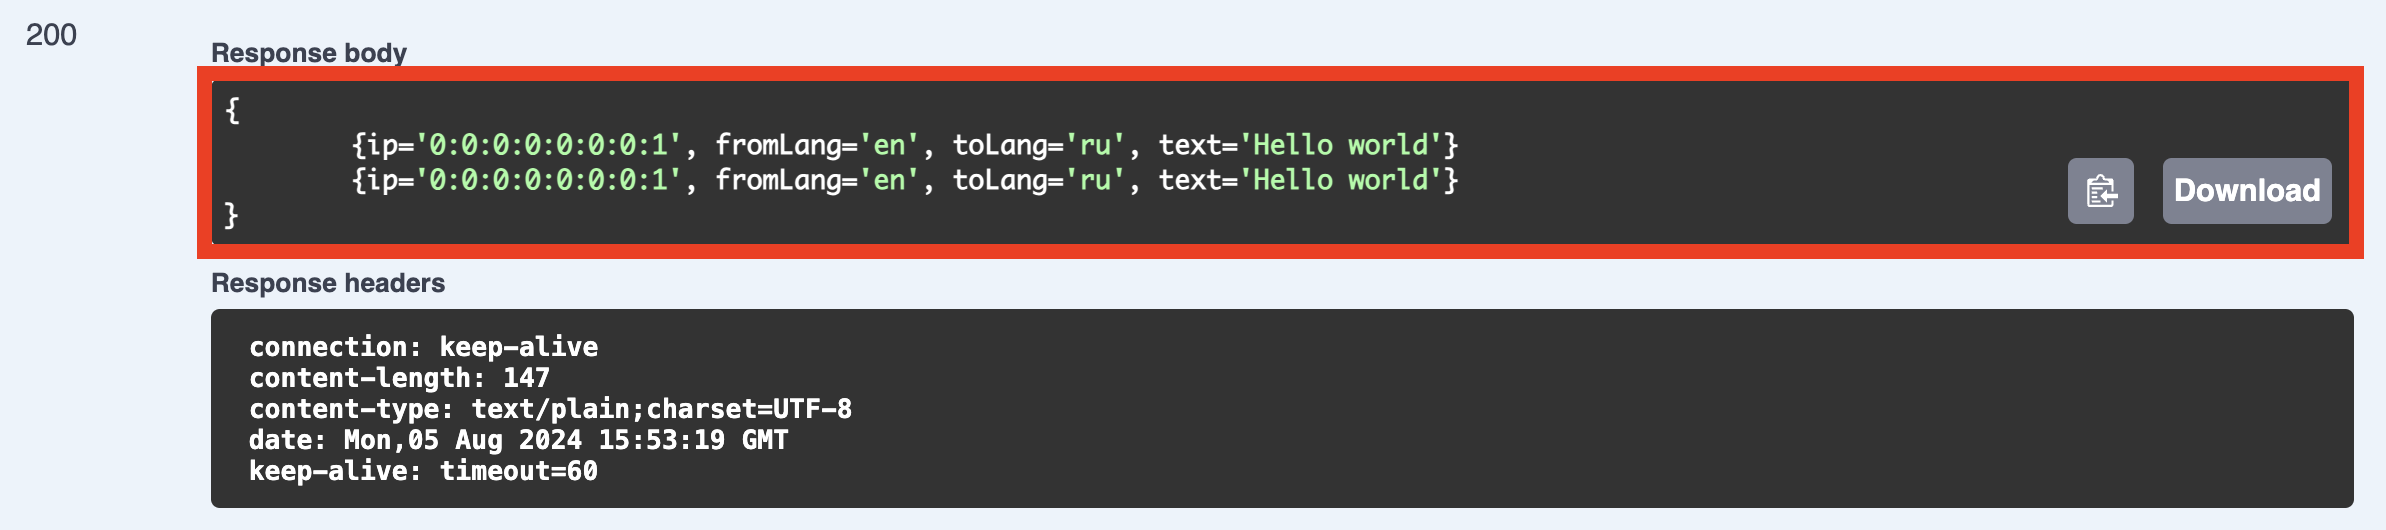
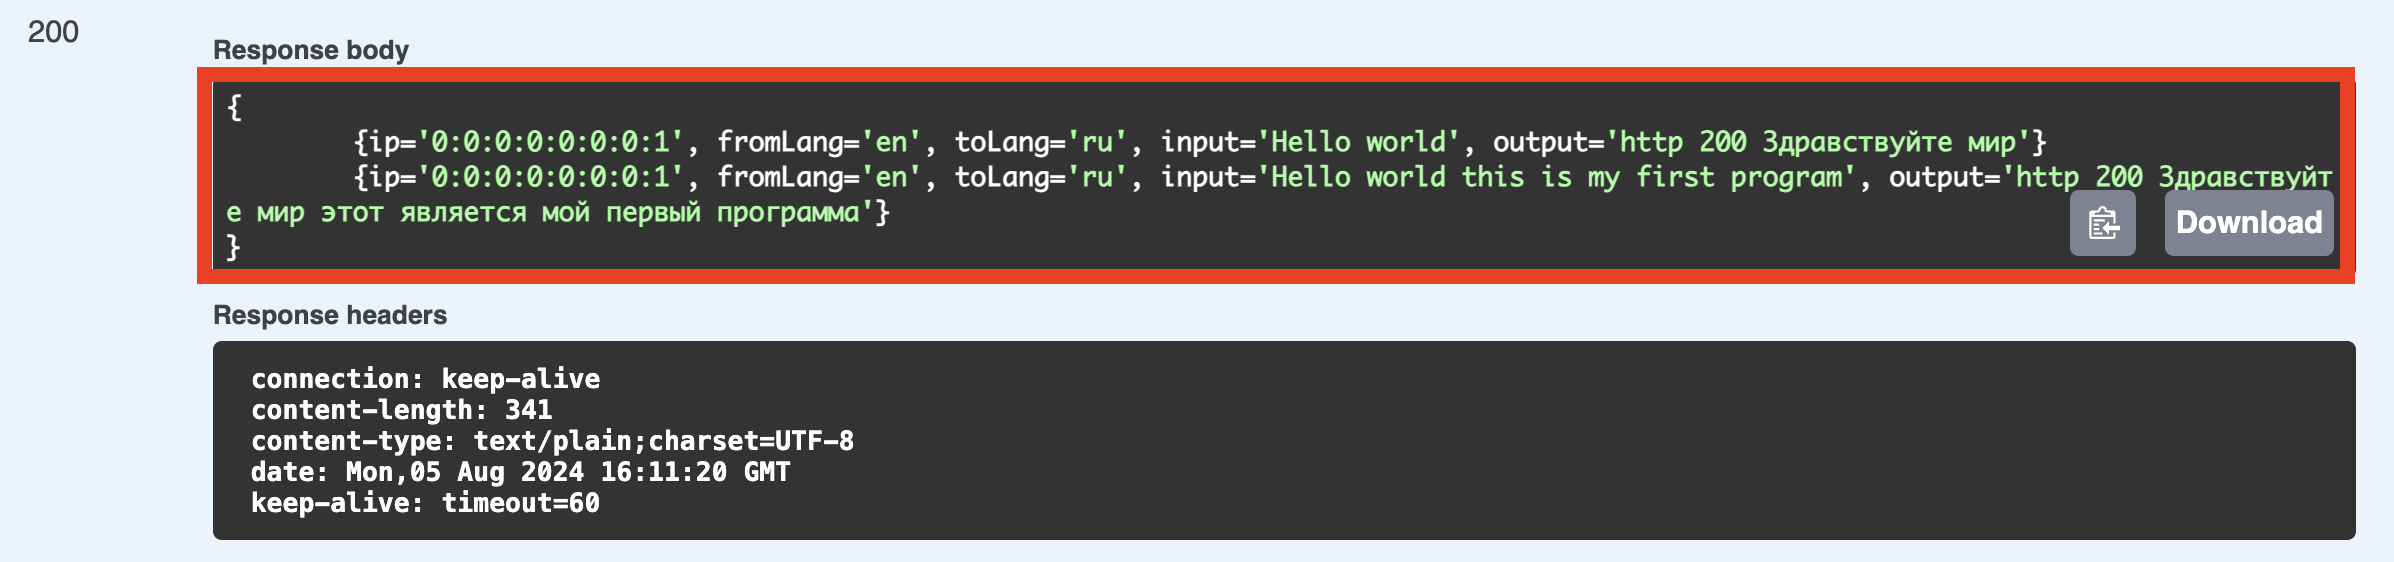
JDBC hotfix

Changed region(s): [[0.062, 0.0604, 0.9925, 0.966], [0.0, 0.0302, 0.031, 0.0906]]

diff --git a/src/main/java/edu/repository/LogRepository.java b/src/main/java/edu/repository/LogRepository.java
@@ -2,8 +2,6 @@ package edu.repository;
 
 import edu.model.Log;
 import org.springframework.beans.factory.annotation.Value;
-import org.springframework.context.annotation.PropertySource;
-import org.springframework.data.repository.CrudRepository;
 import org.springframework.stereotype.Repository;
 
 import java.sql.*;
@@ -24,11 +22,12 @@ public class LogRepository {
         Connection conn = DriverManager.getConnection (dbUrl, dbUser,dbPass);
         Statement st = conn.createStatement();
         st.executeUpdate(String.format(
-                "INSERT INTO translations VALUES('%s', '%s', '%s', '%s');",
+                "INSERT INTO translations VALUES('%s', '%s', '%s', '%s', '%s');",
                 log.getIp(),
                 log.getFromLang(),
                 log.getToLang(),
-                log.getText()
+                log.getInput(),
+                log.getOutput()
         ));
         st.close();
         conn.close();
@@ -44,8 +43,9 @@ public class LogRepository {
             String ip = rs.getString("ip");
             String fromLang = rs.getString("fromLang");
             String toLang = rs.getString("toLang");
-            String text = rs.getString("text");
-            result.add(new Log(ip, fromLang, toLang, text));
+            String input = rs.getString("input");
+            String output = rs.getString("output");
+            result.add(new Log(ip, fromLang, toLang, input, output));
         }
         return result;
     }

diff --git a/src/main/java/edu/controller/Controller.java b/src/main/java/edu/controller/Controller.java
@@ -21,10 +21,10 @@ public class Controller {
     public String translate(
             @Valid @RequestBody RequestDTO requestDTO,
             HttpServletRequest request) {
-        String result = translateService.translate(requestDTO);
+        String result = translateService.translate(requestDTO).trim();
         String ipAddress = request.getHeader("X-FORWARDED-FOR");
         if (ipAddress == null || ipAddress.isEmpty()) ipAddress = request.getRemoteAddr();
-        logService.saveLog(new Log(ipAddress,requestDTO.getFrom(), requestDTO.getTo(), requestDTO.getText()));
+        logService.saveLog(new Log(ipAddress,requestDTO.getFrom(), requestDTO.getTo(), requestDTO.getText(), result));
         return result;
     }
 

diff --git a/src/main/java/edu/model/Log.java b/src/main/java/edu/model/Log.java
@@ -14,7 +14,8 @@ public class Log {
     private String ip;
     private String fromLang;
     private String toLang;
-    private String text;
+    private String input;
+    private String output;
 
     @Override
     public String toString() {
@@ -22,7 +23,8 @@ public class Log {
                 "ip='" + ip + '\'' +
                 ", fromLang='" + fromLang + '\'' +
                 ", toLang='" + toLang + '\'' +
-                ", text='" + text + '\'' +
+                ", input='" + input + '\'' +
+                ", output='" + output + '\'' +
                 '}';
     }
 }

diff --git a/README.md b/README.md
@@ -45,7 +45,7 @@ Enter your API key into service.apiKey
 ```bash
 cd Translator
 mvn clean spring-boot:run 
-open http://localhost:8080/swagger-ui/index.html
+open http://localhost:8085/swagger-ui/index.html
 ```
 
 ## Request body example
